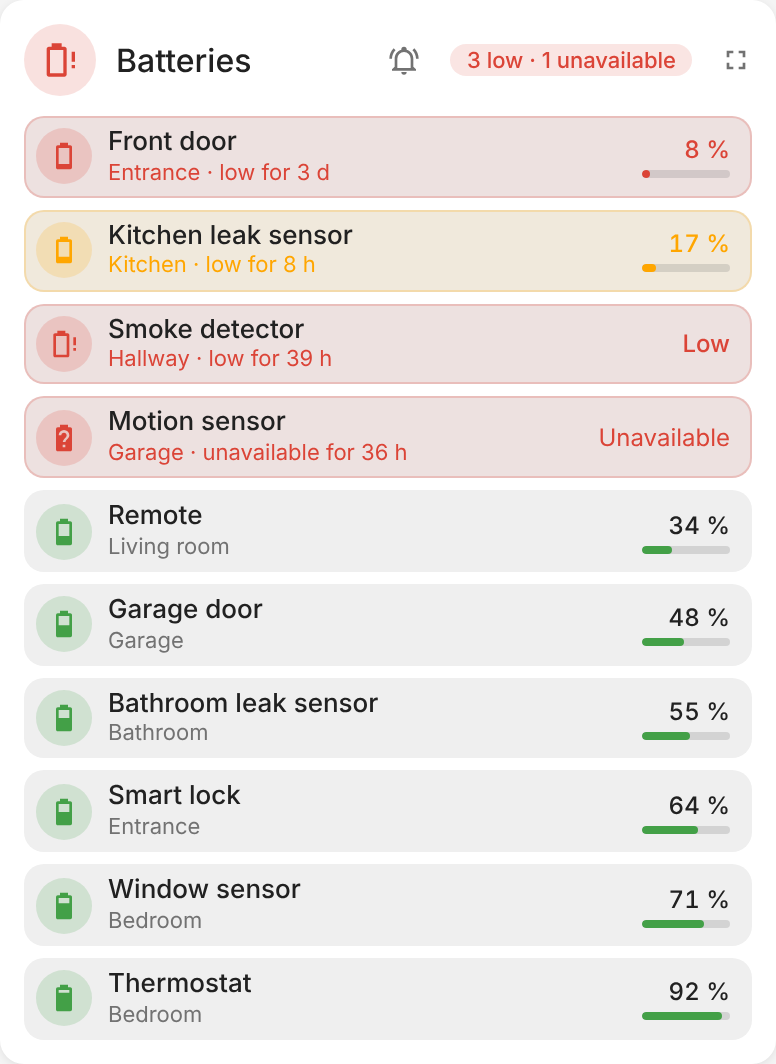
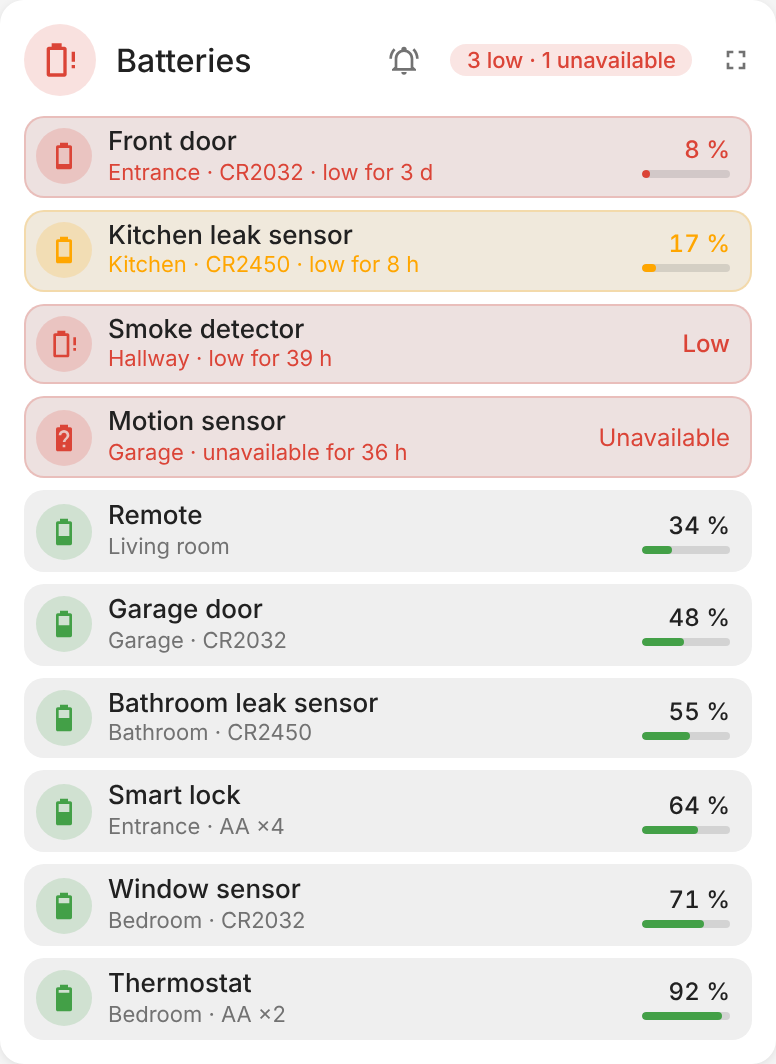
1.5.1: battery type in the card's list
The battery type (CR2032, AAA ×2…) under each battery's name, next to its
room, in the card's list as in the full screen view.

Claude-Session: https://claude.ai/code/session_01WjKiQzL7a4CMZZ4UuoNS5R

diff --git a/custom_components/battery_monitor/frontend/battery-monitor-card.js b/custom_components/battery_monitor/frontend/battery-monitor-card.js
@@ -4,7 +4,7 @@
  * Served and added to the dashboard resources by the integration.
  * https://github.com/juju35/ha-battery-monitor
  */
-var BATTERY_MONITOR_CARD_VERSION = '1.5.0';
+var BATTERY_MONITOR_CARD_VERSION = '1.5.1';
 
 const BM_I18N = {
   en: {
@@ -284,7 +284,10 @@ class BatteryMonitorCard extends HTMLElement {
     const status = this._status(st, counts, all);
     const cols = Math.min(3, Math.max(1, Number(c.columns) || 1));
 
-    const rows = shown.map((b) => this._row(b, b.area)).join('');
+    // The room and the battery type (CR2032, 2× AA…) under each name, when known.
+    const rows = shown
+      .map((b) => this._row(b, [b.area, this._typeLabel(bmTypeOf(this._hass, c, b))].filter(Boolean).join(' · ')))
+      .join('');
 
     this.shadowRoot.innerHTML = `
       <style>${BatteryMonitorCard.styles}</style>

diff --git a/custom_components/battery_monitor/const.py b/custom_components/battery_monitor/const.py
@@ -5,7 +5,7 @@ from __future__ import annotations
 from typing import Final
 
 DOMAIN: Final = "battery_monitor"
-VERSION: Final = "1.5.0"
+VERSION: Final = "1.5.1"
 
 CONF_THRESHOLD: Final = "threshold"
 CONF_DURATION: Final = "duration"

diff --git a/README.md b/README.md
@@ -31,7 +31,7 @@ It comes with a **Lovelace card** listing every battery with its icon, name, roo
 - **Two notifications a day**, at times you choose (09:00 and 19:00 by default), listing the low batteries with their room and level
 - **Persistent notification**, replaced each time and cleared when no battery is low any more, and the **notify actions** of your choice (mobile app…)
 - **Ignored batteries and integrations**: phones and tablets of the mobile app are left out by default
-- **Lovelace card bundled with the integration**, added automatically to the dashboard resources (nothing to add by hand): icon, name, room, level and how long the battery has been low; red and blinking once notified, orange while low
+- **Lovelace card bundled with the integration**, added automatically to the dashboard resources (nothing to add by hand): icon, name, room, battery type, level and how long the battery has been low; red and blinking once notified, orange while low
 - **Full screen view** from the card: every battery grouped **by room** or **by battery type** (CR2032, AA…), with what to buy for the ones to replace; battery types read from [Battery Notes](https://github.com/andrew-codechimp/HA-Battery-Notes) or set in the card editor
 - **Low batteries** sensor with every monitored battery in its attributes, **Last notification** sensor, **Notify now** button and `battery_monitor.notify` action
 - UI setup, no YAML; English and French

diff --git a/CHANGELOG.md b/CHANGELOG.md
@@ -1,5 +1,10 @@
 # Changelog
 
+## 1.5.1
+
+### Changes
+- Card: the battery type (CR2032, AAA ×2…) is shown under each battery's name, next to its room, in the card's list too.
+
 ## 1.5.0
 
 ### Changes
